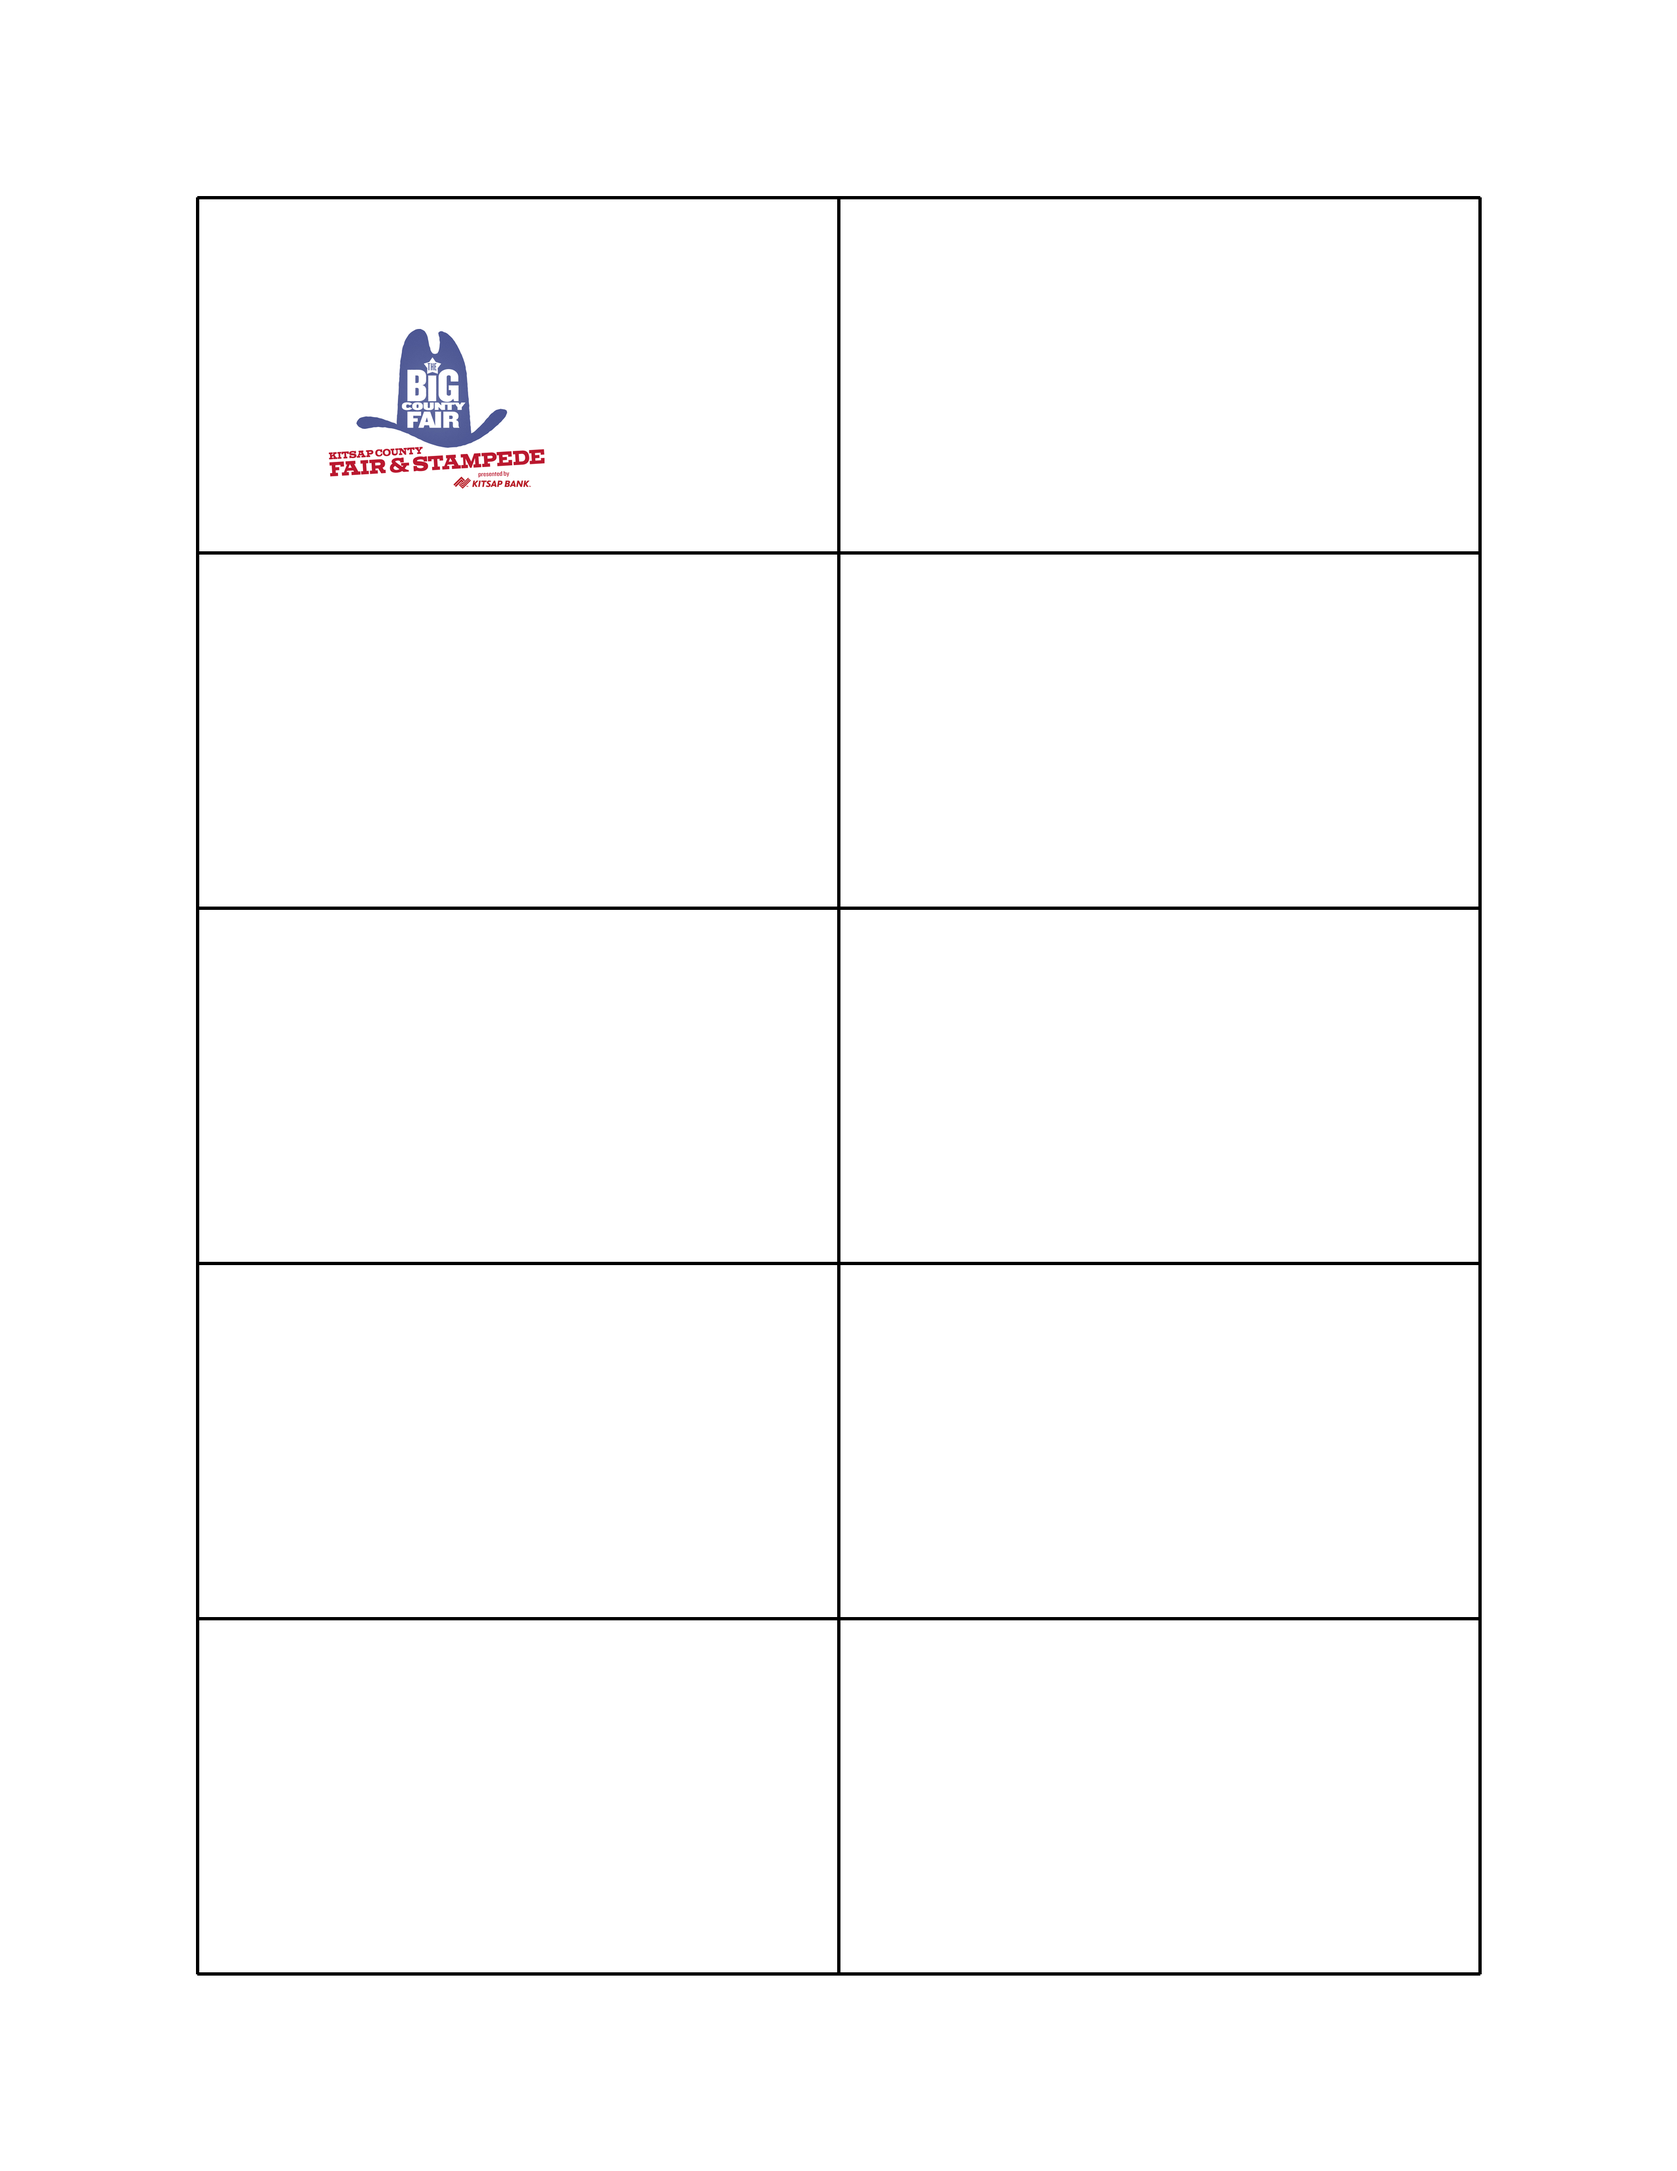
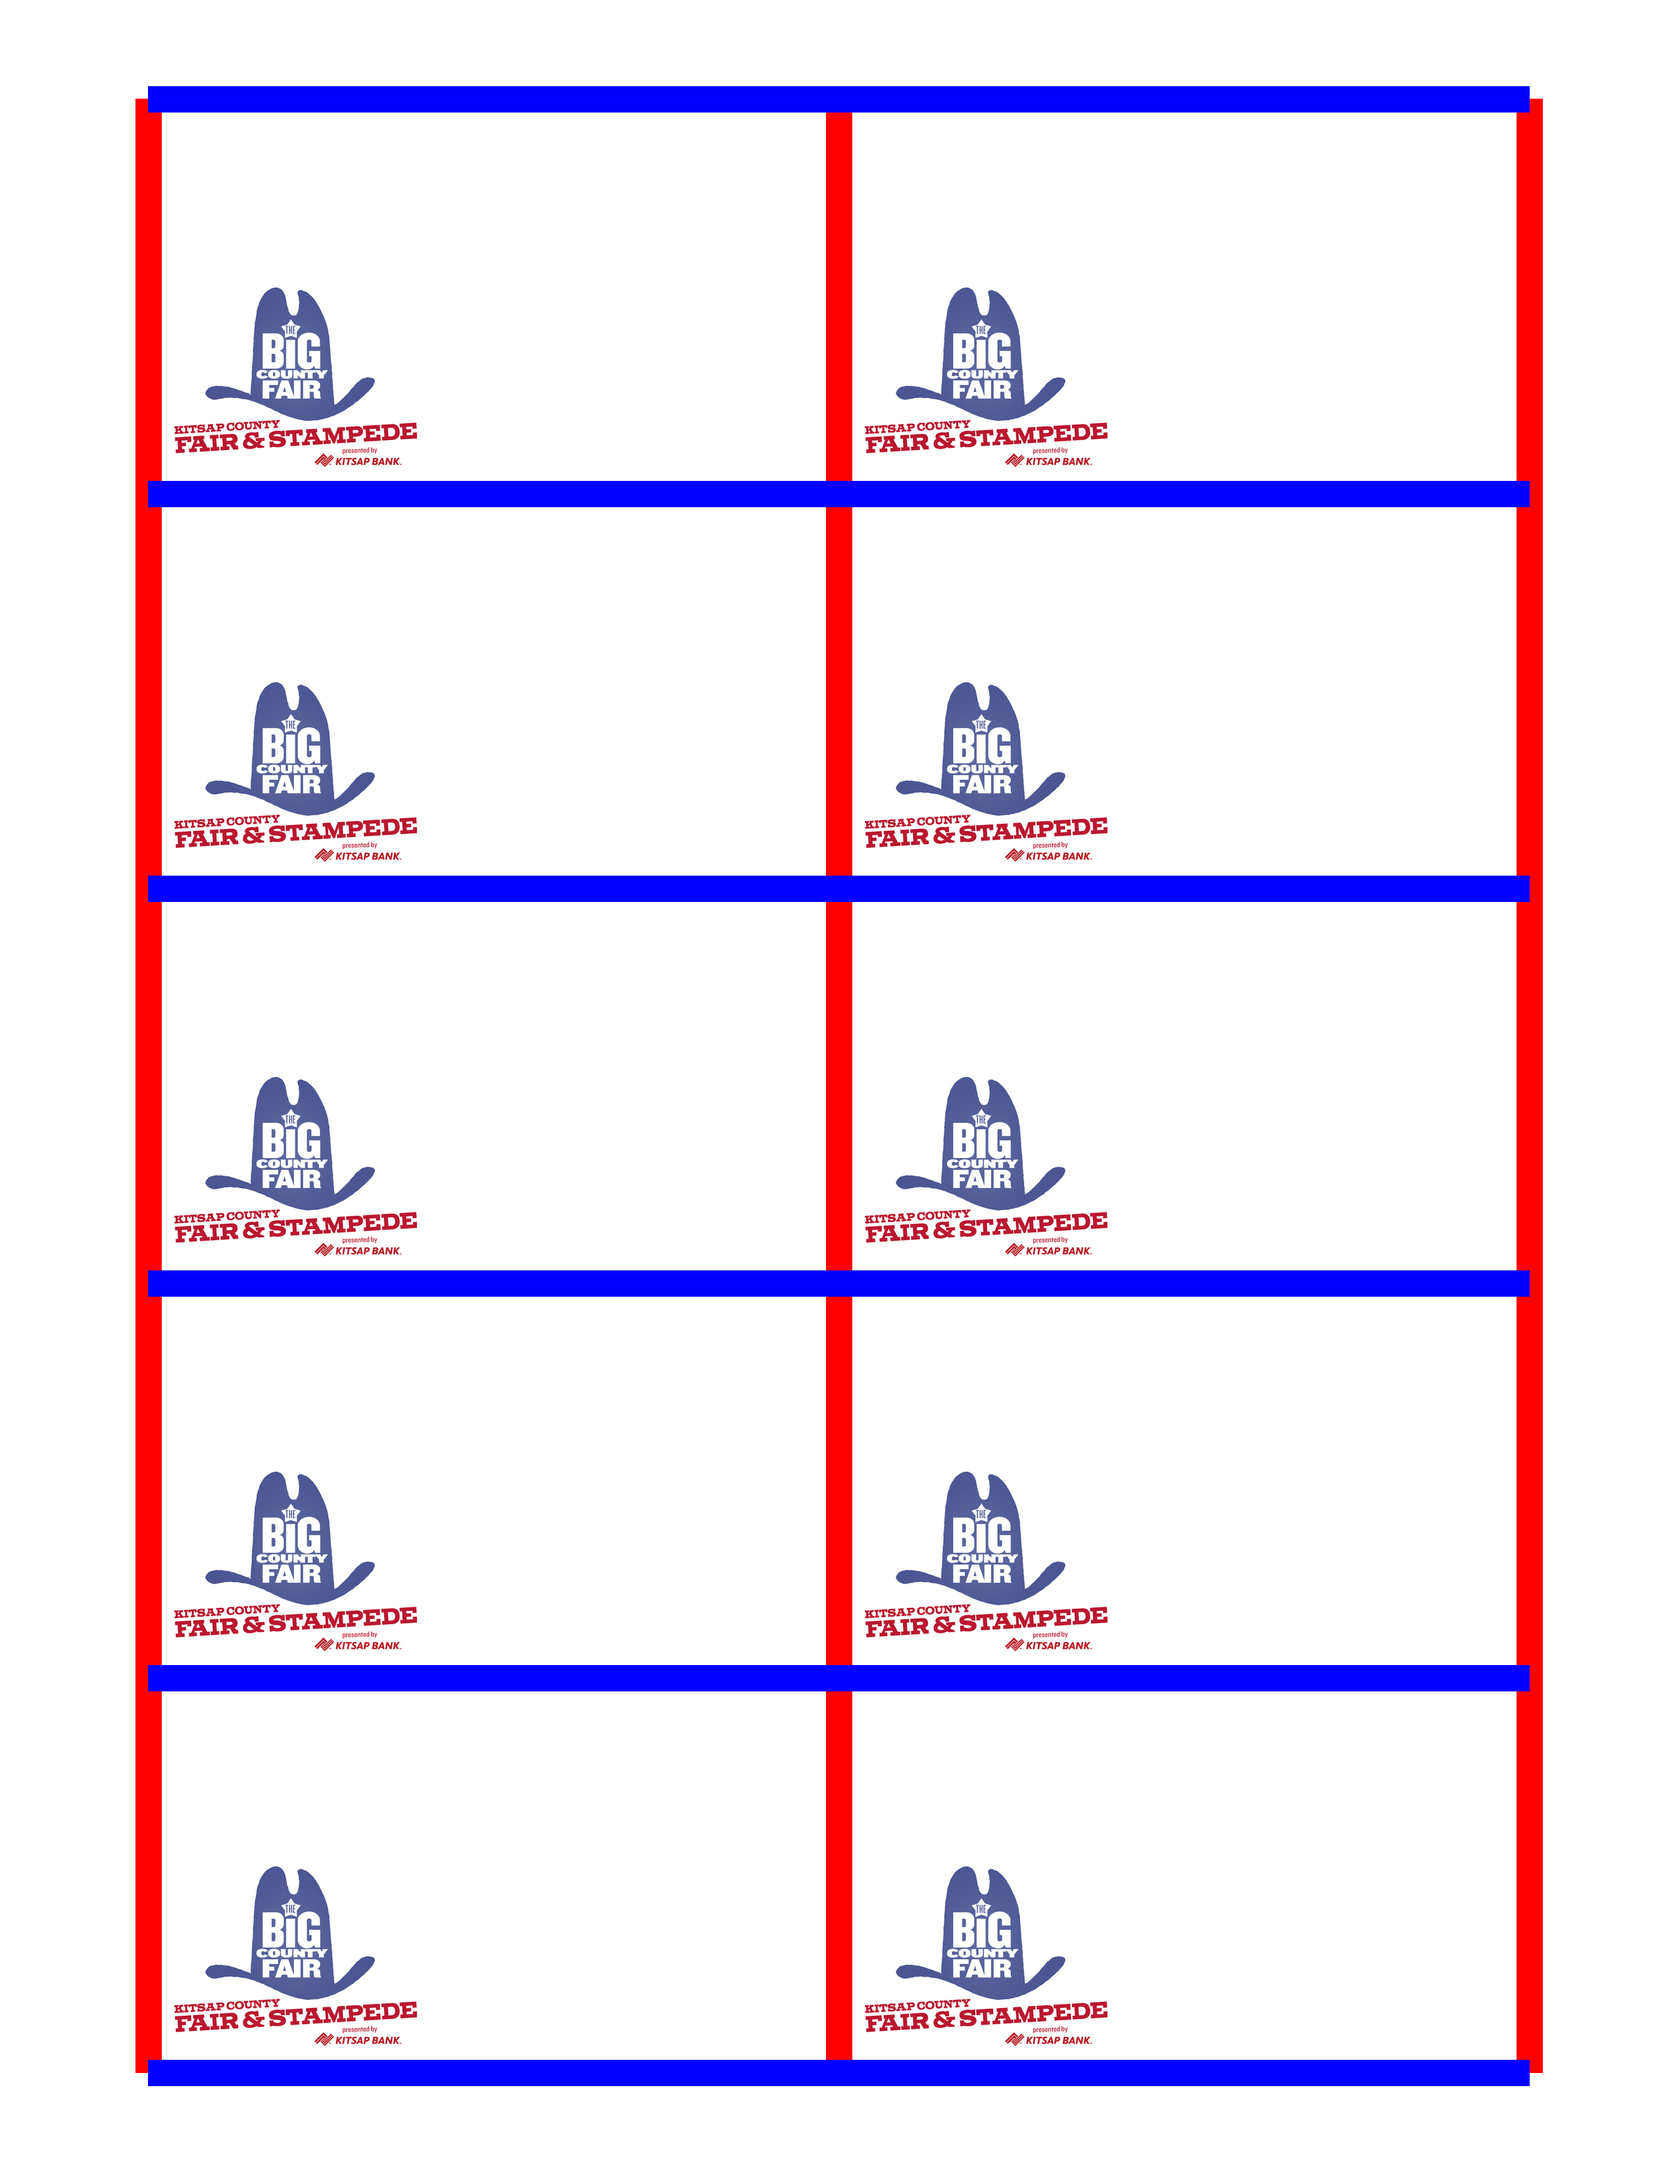
restructured

Changed region(s): [[0.062, 0.0312, 0.9294, 0.9676]]

diff --git a/tag.py b/tag.py
@@ -1,32 +1,33 @@
-#import PIL
 from PIL import Image, ImageDraw
 
+#Configuration Settings
 PIXELS_PER_INCH = 300
 PAPER_SIZE = (8.5, 11)
+ROWS = 5
+COLUMNS = 2
+BORDER_WIDTH = 40
+LOGO_MARGIN = 40
+IMAGE_BACKGROUND = "white"
+logo = Image.open("fair_logo.jpg")
+logo = logo.resize((369, 273), Image.LANCZOS) #328, 243
+
+#Derived Settings
 IMAGE_SIZE = (int(PAPER_SIZE[0] * PIXELS_PER_INCH),
               int(PAPER_SIZE[1] * PIXELS_PER_INCH))
 MARGIN_SIZE = 1 * PIXELS_PER_INCH
-ROWS = 5
-COLUMNS = 2
-BORDER_WIDTH = 5
-
-image = Image.new("RGB", IMAGE_SIZE, "white")
-draw = ImageDraw.Draw(image, "RGB")
-
-"""
-UPPER_LEFT = (MARGIN_SIZE, MARGIN_SIZE)
-BOTTOM_RIGHT = (IMAGE_SIZE[0] - MARGIN_SIZE, IMAGE_SIZE[1] - MARGIN_SIZE)
-PRINTABLE_AREA = UPPER_LEFT + BOTTOM_RIGHT
-"""
-
-X_MIN = MARGIN_SIZE
-X_MAX = IMAGE_SIZE[0] - MARGIN_SIZE
-Y_MIN = MARGIN_SIZE
-Y_MAX = IMAGE_SIZE[1] - MARGIN_SIZE
+TOP_MARGIN = int(.5 * PIXELS_PER_INCH)
+SIDE_MARGIN = int(.75 * PIXELS_PER_INCH)
+X_MIN = SIDE_MARGIN
+X_MAX = IMAGE_SIZE[0] - SIDE_MARGIN
+Y_MIN = TOP_MARGIN
+Y_MAX = IMAGE_SIZE[1] - TOP_MARGIN
 PIXELS_IN_ROW = ((Y_MAX - Y_MIN) // ROWS)
 CARD_SIZE = (((X_MAX - X_MIN) // 2), PIXELS_IN_ROW)
-LOGO_MARGIN = 20
+LOGO_TRANSLATION = (LOGO_MARGIN, CARD_SIZE[1] - logo.size[1] - LOGO_MARGIN)
+image = Image.new("RGB", IMAGE_SIZE, IMAGE_BACKGROUND)
+draw = ImageDraw.Draw(image, "RGB")
 
+#Generates a list containing the upper left coordinate of each card.
 cards_coordinates = []
 current_coord = (X_MIN, Y_MIN)
 cards_coordinates.append(current_coord)
@@ -39,33 +40,55 @@ for row in range(ROWS):
     cards_coordinates.append(current_coord)
 cards_coordinates.pop(10)
 
-#Draws the Border
-draw.line([(X_MIN, Y_MIN),
-           (X_MAX, Y_MIN),
-           (X_MAX, Y_MAX),
-           (X_MIN, Y_MAX),
-           (X_MIN, Y_MIN)],
-           fill="black", width=BORDER_WIDTH)
 
-#Draws the Vertical Line
+#Draws the Vertical Lines
+draw.line([(X_MIN, Y_MIN),
+           (X_MIN, Y_MAX)],
+           fill="red", width=BORDER_WIDTH)
+draw.line([(X_MAX, Y_MIN),
+           (X_MAX, Y_MAX)],
+           fill="red", width=BORDER_WIDTH)
 draw.line([(((X_MIN + X_MAX) // 2), Y_MIN),
            (((X_MIN + X_MAX) // 2), Y_MAX)],
-             fill="black", width=BORDER_WIDTH)
+             fill="red", width=BORDER_WIDTH)
 
-#Draws the Horizontal Line
+#Draws the Horizontal Lines
+draw.line([(X_MIN, Y_MIN),
+           (X_MAX, Y_MIN)],
+           fill="blue", width=BORDER_WIDTH)
+draw.line([(X_MIN, Y_MAX),
+           (X_MAX, Y_MAX)],
+           fill="blue", width=BORDER_WIDTH)
 current_row = Y_MIN
 for row in range(ROWS):
     current_row += PIXELS_IN_ROW
     draw.line([X_MIN, current_row, X_MAX, current_row],
-                fill="black", width=BORDER_WIDTH)
+                fill="blue", width=BORDER_WIDTH)
 
 #Draws the Logo
-logo = Image.open("C:\\Users\\gonyeau\\AppData\\Local\\Programs\\Python\\Tag\\fair_logo.jpg")
-logo = logo.resize((328, 243), Image.LANCZOS)
-logo_translation = (LOGO_MARGIN, CARD_SIZE[1] - logo.size[1] - LOGO_MARGIN)
+current_coord
+for coord in cards_coordinates:
+    current_coord = (coord[0] + LOGO_TRANSLATION[0], coord[1] + LOGO_TRANSLATION[1])
+    image.paste(logo, box=(current_coord))
+
+blank_image = image.copy()
+
+current_data = [ #[Name, Title, Name_Modifier, Title Modifier]
+    ["George Martin", "Painting of a Cat"], 
+    ["George Martin", "Painting of a Dog"],
+    ["George Martin", "Painting of a Train"],
+    ["Perry the Platypus", "Bach is Nude"],
+    ["Perry the Platypus", "Nudity"],
+    ["Perry the Platypus", "The French Explorer, Bachurat the Brave"],
+    ["San Jean Von Eisenvon", "123"],
+    ["San Jean Von Eisenvon", "456"]]
+
+def write_text(data_list):
+    image = blank_image
+    for entry in data_list:
+        pass
 
 
-image.paste(logo, box=(500,500)) #, box=(((X_MIN + X_MAX) // 2), ((Y_MIN + Y_MAX) // 2)))
 
 image.save("Test.png")
 
